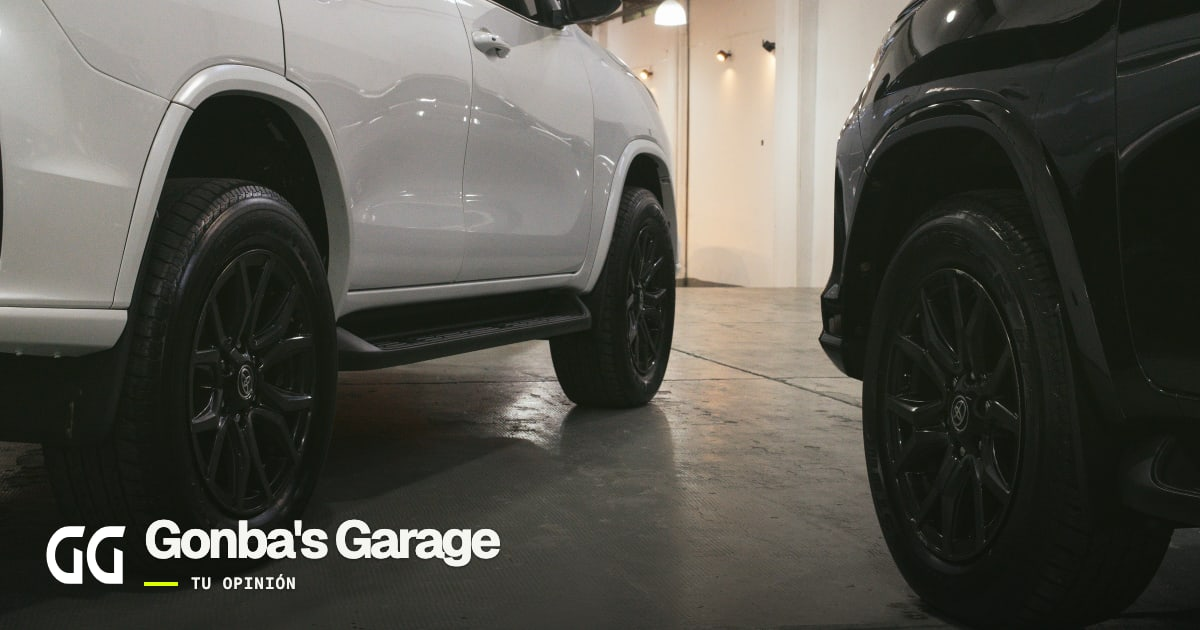
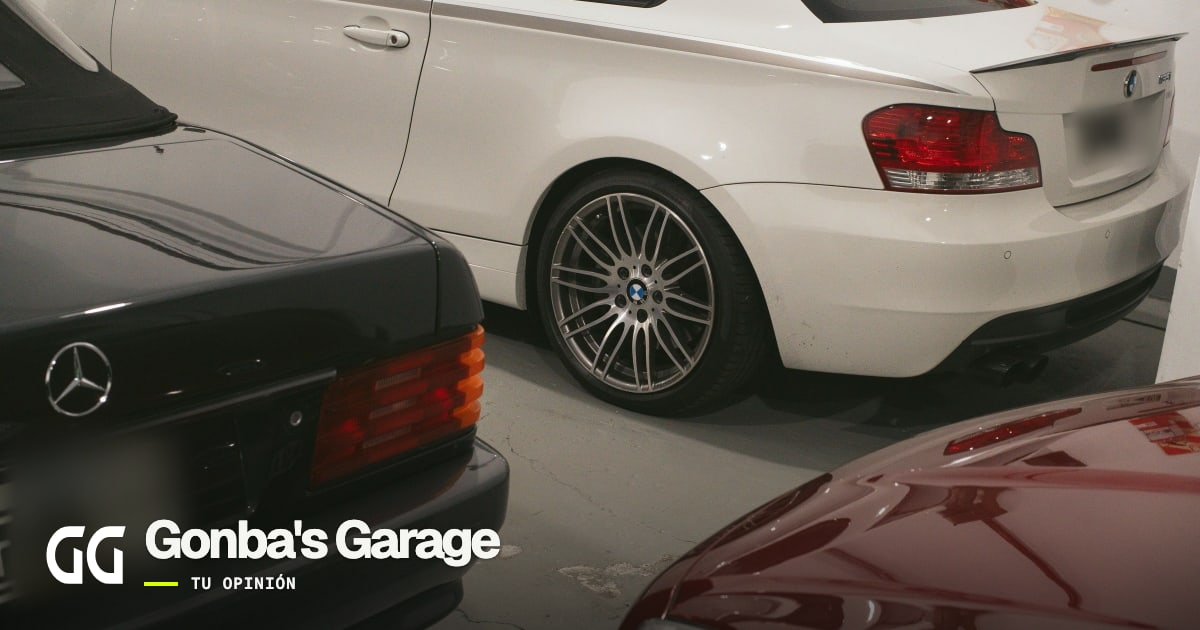
feat: use the coupe and Mercedes photo for the /opinar share image

diff --git a/app/opinar/page.tsx b/app/opinar/page.tsx
@@ -17,7 +17,7 @@ export const metadata: Metadata = {
     description: "Dejá tu opinión sobre cómo fue comprar o vender tu auto con Gonba's Garage.",
     path: '/opinar',
     image: '/social/opinar.jpg',
-    imageAlt: "Toyota blanca y Toyota negra en Gonba's Garage",
+    imageAlt: "BMW blanco y Mercedes-Benz negro en Gonba's Garage",
   }),
   robots: { index: false, follow: false },
 };
